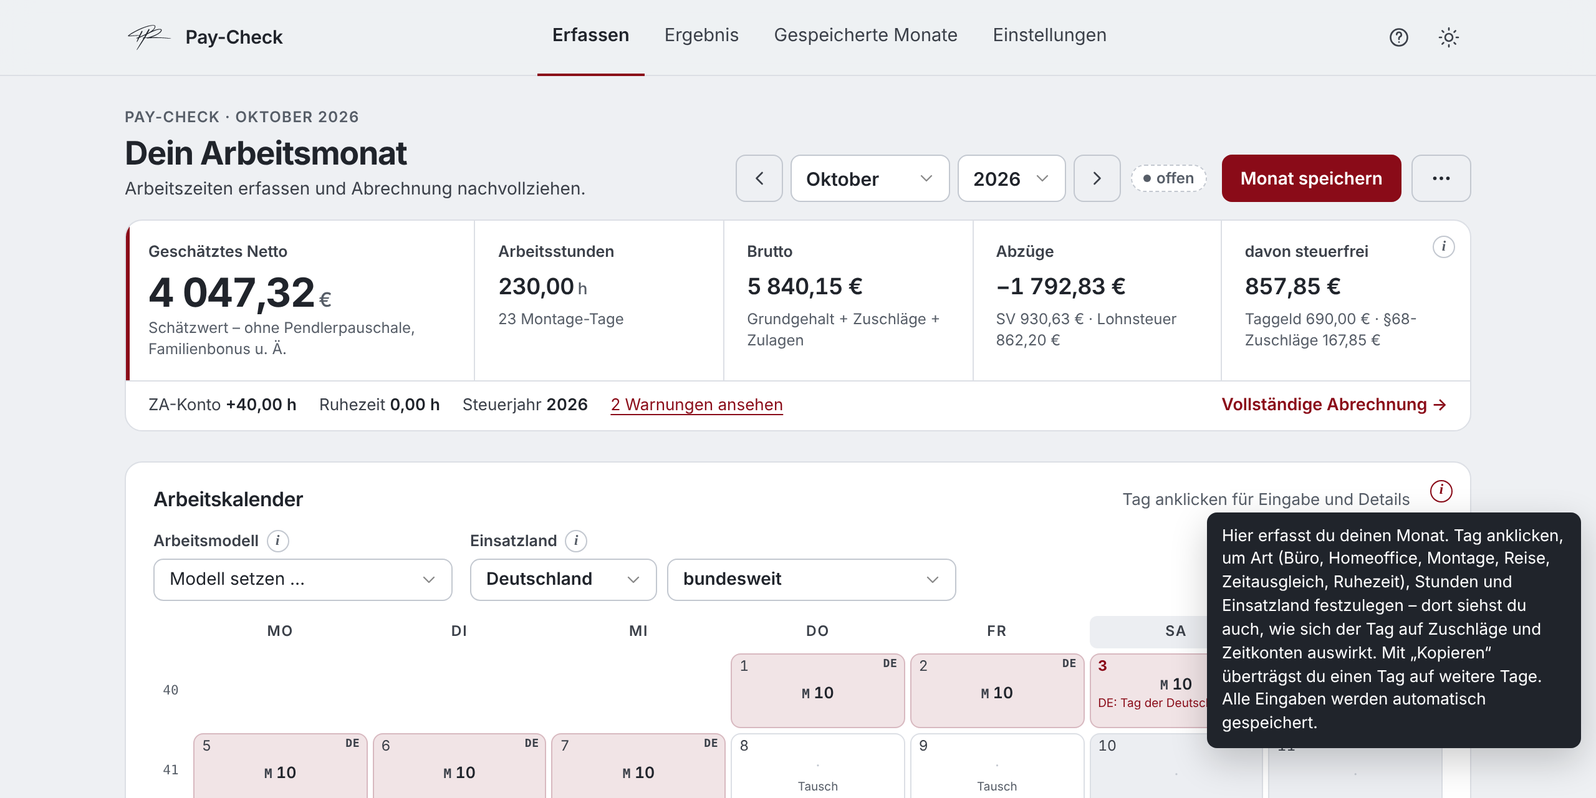
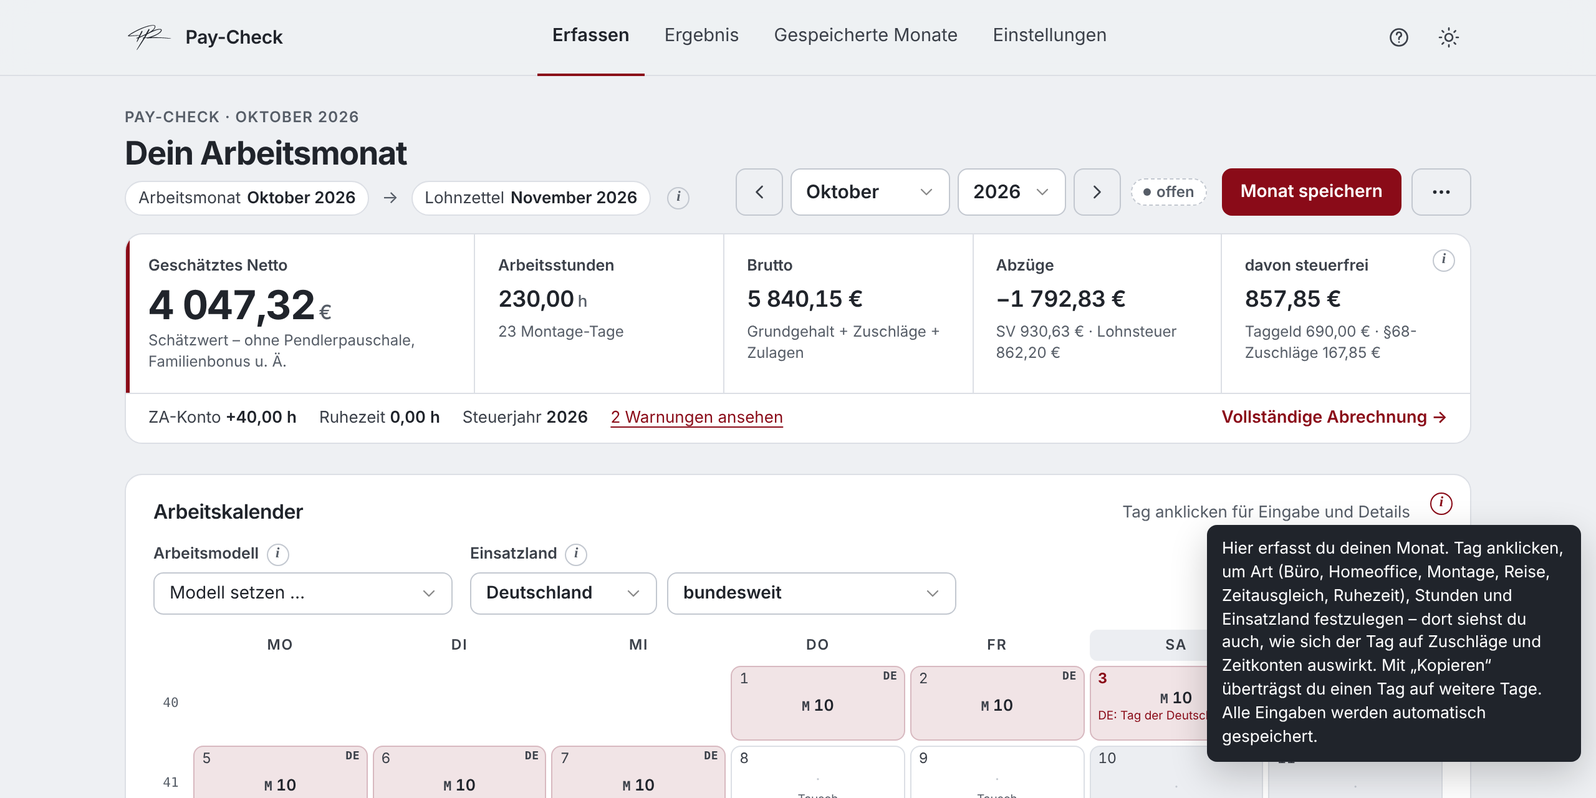
Arbeitsmonat und Lohnzettel klar zuordnen (3.1.0)
- Kopf in Erfassen und Ergebnis: „Arbeitsmonat … → Lohnzettel …“ mit Erklärung,
  Feld „Lohnzettel für“ in der Bezahlung entfällt
- Gespeicherte Monate: Erklärsatz, Diagramm mit Lohnzettel-Monat unter jedem
  Arbeitsmonat, Tabelle und Monatsliste mit „→ Lohnzettel …“
- englische Texte ergänzt, README-Bilder erneuert

diff --git a/index.html b/index.html
@@ -29,6 +29,7 @@
 ": Ergebnis festgehalten; es ändert sich nicht mehr von selbst.": ": Result recorded; it will no longer change on its own.",
 ": Lohnzettel liegt vor und wurde verglichen.": ": Payslip available and compared.",
 ": erfasst und automatisch gesichert, aber noch nicht gespeichert.": ": recorded and automatically backed up, but not saved yet.",
+": {} gearbeitet → Lohnzettel {}.": ": worked in {} → payslip {}.",
 "Abbrechen": "Cancel",
 "Abgerechnet": "Settled",
 "Abgestimmt auf den Abrechnungsbeleg mit den Spalten Lohnart · Einheiten · Satz/BMG · Abzüge · Bezüge. Andere Lohnzettel werden nur allgemein zugeordnet. Bitte jeden erkannten Wert kontrollieren.": "Tailored to the pay statement with the columns wage type · units · rate/BMG · deductions · earnings. Other payslips are only matched in general terms. Please check every recognised value.",
@@ -69,6 +70,8 @@
 "Arbeitsmodell im Monat fortführen": "Continue work pattern in this month",
 "Arbeitsmodell setzen": "Set work pattern",
 "Arbeitsmodell wählen, dann den ersten Arbeitstag im Kalender anklicken": "Choose a work pattern, then click the first working day in the calendar",
+"Arbeitsmonat": "Work month",
+"Arbeitsmonat {} {} → Lohnzettel {} {}": "Work month {} {} → payslip {} {}",
 "Arbeitsstunden": "Working hours",
 "Arbeitstage im Modell": "Working days in pattern",
 "Arbeitszeiten erfassen und Abrechnung nachvollziehen.": "Record your working hours and understand your pay statement.",
@@ -262,6 +265,7 @@
 "Jahresbrutto": "Annual gross",
 "Jahresnetto geschätzt": "Estimated annual net",
 "Jahresübersicht mit Kennzahlen, Diagrammen und allen Monaten. Netto und Brutto summieren nur erfasste Monate; Schätzungen offener Monate sind gekennzeichnet. Export als CSV oder PDF.": "Annual overview with key figures, charts and all months. Net and gross only add up recorded months; estimates for open months are marked. Export as CSV or PDF.",
+"Jede Zeile ist": "Each row is",
 "Jeder erfasste Tag mit Normalarbeitszeit, ZA- und Ruhezeit-Buchung, Zuschlägen und Lenkzeit – gruppiert nach Kalenderwochen mit Wochensummen.": "Every recorded day with normal working hours, ZA and rest time bookings, premiums and driving time – grouped by calendar week with weekly totals.",
 "KV-Erhöhung oder geänderte Einstufung": "KV pay rise or changed grading",
 "KW {}": "CW {}",
@@ -288,15 +292,19 @@
 "Lohnsteuer": "Wage tax",
 "Lohnsteuer (Tarif {})": "Wage tax (tariff {})",
 "Lohnsteuer nach Tarif {} mit Verkehrsabsetzbetrag und Werbungskostenpauschale – ohne Pendlerpauschale, Familienbonus und andere Absetzbeträge.": "Wage tax per the {} tariff with transport tax credit and flat-rate income-related expenses – without commuter allowance, Family Bonus Plus and other tax credits.",
+"Lohnzettel": "Payslip",
 "Lohnzettel (berechnet)": "Payslip (calculated)",
+"Lohnzettel des Folgemonats": "following month's payslip",
 "Lohnzettel einlesen": "Import payslip",
 "Lohnzettel einlesen geht nur online oder über einen lokalen Webserver, nicht in der heruntergeladenen Einzeldatei": "Reading a payslip only works online or via a local web server, not in the downloaded single file",
 "Lohnzettel einlesen konnte nicht geladen werden": "Payslip reading could not be loaded",
 "Lohnzettel für": "Payslip for",
 "Lohnzettel prüfen: Soll-Ist-Vergleich": "Check payslip: expected vs. actual comparison",
 "Lohnzettel wird gelesen": "Reading payslip",
+"Lohnzettel {} {}": "Payslip {} {}",
 "Lohnzettel {} {} erkannt – passt zur Berechnung für {} {}.": "Payslip {} {} detected – matches the calculation for {} {}.",
 "Lohnzettel {} {} nachvollziehen und mit dem echten vergleichen.": "Understand payslip {} {} and compare it with the real one.",
+"Lohnzettel {} {} · Werte {}": "Payslip {} {} · {} values",
 "Lohnzettel-Monat = Folgemonat": "Payslip month = following month",
 "Luxemburg": "Luxembourg",
 "Löschen": "Delete",
@@ -350,6 +358,7 @@
 "Netto / Auszahlung": "Net / payout",
 "Netto berechnet": "Net calculated",
 "Netto geschätzt": "Net estimated",
+"Netto je Arbeitsmonat": "Net per work month",
 "Netto je Monat": "Net per month",
 "Netto jedes Monats im gewählten Jahr. Volle Balken: gespeicherte oder abgerechnete Monate. Schraffiert: offene Monate (Schätzung aus den aktuellen Eingaben). Roter Strich: Netto laut Lohnzettel aus dem Soll-Ist-Vergleich. Nicht erfasste Monate bleiben leer und zählen nicht als {} €.": "Net for each month of the selected year. Solid bars: saved or settled months. Hatched: open months (estimate from the current inputs). Red line: net per payslip from the expected vs. actual comparison. Months not recorded stay empty and don't count as {} €.",
 "Netto laut LZ": "Net per payslip",
@@ -558,6 +567,7 @@
 "Zuschlag ZA-Überlauf (%)": "ZA overflow premium (%)",
 "Zuschläge & Überstunden": "Premiums & overtime",
 "Zuschläge und Taggeld eines Monats werden meist am Lohnzettel des Folgemonats abgerechnet. Vergleiche daher mit diesem Lohnzettel.": "A month's premiums and daily allowance are usually settled on the following month's payslip. So compare with this payslip.",
+"Zuschläge, Überstunden und Taggeld eines Monats werden meist erst am Lohnzettel des Folgemonats abgerechnet. Vergleiche die Berechnung daher mit diesem Lohnzettel.": "Premiums, overtime and daily allowance for a month are usually only paid on the following month's payslip. So compare the calculation with this payslip.",
 "abgerechnet": "settled",
 "alle Tage mit Wochensummen": "all days with weekly totals",
 "als weitere Position: {} €": "as an additional item: {} €",
@@ -566,6 +576,7 @@
 "bundesweit": "nationwide",
 "davon steuerfrei": "of which tax-free",
 "den Monat speichern, mit dem echten Lohnzettel vergleichen und als": "save the month, compare it with your real payslip and mark it as",
+"ein Arbeitsmonat": "a work month",
 "ein PDF (bis {} Seiten) oder bis zu {} Fotos – eines pro Seite · JPG oder PNG · zusammen bis {} MB": "one PDF (up to {} pages) or up to {} photos – one per page · JPG or PNG · up to {} MB in total",
 "eingeschränkt vergleichbar": "partly comparable",
 "einmal Grundgehalt, Taggeld und dein Arbeitsmodell eintragen.": ", enter your base salary, daily allowance and work pattern once.",
@@ -615,6 +626,7 @@
 "steuerpflichtig": "taxable",
 "stimmt": "matches",
 "ungültige Eingabe": "invalid input",
+"unter jedem Monat: Lohnzettel-Monat": "below each month: payslip month",
 "unvollständig": "incomplete",
 "veraltet": "outdated",
 "von dir geändert": "changed by you",
@@ -694,7 +706,10 @@
 "Übertrag": "Carried over",
 "Übertrag {} · Sonntagsarbeit {} · genommen {}": "Carried over {} · Sunday work {} · taken {}",
 "Übertrag {} · Zugänge {} · Entnahmen {}": "Carried over {} · additions {} · withdrawals {}",
-"– auf den ersten Arbeitstag klicken": "– click the first working day"
+"– auf den ersten Arbeitstag klicken": "– click the first working day",
+"– der Monat, in dem du gearbeitet hast. Zuschläge und Taggeld daraus stehen meist am": "– the month in which you worked. Its premiums and daily allowance usually appear on the",
+"→ Lohnzettel": "→ payslip",
+"→ Lohnzettel {} {}": "→ payslip {} {}"
 }</script>
 <script>
 (function(){
@@ -1131,6 +1146,18 @@ tr.clickable:hover td{background:var(--pr-surface-2);}
 .rec-item{display:grid;grid-template-columns:24px minmax(0,1fr) 190px 360px;gap:8px 14px;align-items:center;padding:12px 0;border-bottom:1px solid var(--pr-border);}
 .rec-item:last-child{border-bottom:none;}
 .rec-name{font-weight:600;}
+#jahr-table td.r,.nowrap{white-space:nowrap;}
+#jahr-table th{white-space:normal;vertical-align:bottom;}
+.td-lz{display:block;font-size:12px;color:var(--pr-text-3);white-space:nowrap;}
+.th-sub{display:block;text-transform:none;letter-spacing:0;font-weight:500;color:var(--pr-text-3);}
+.rec-lz{font-weight:400;font-size:13px;color:var(--pr-text-3);margin-left:4px;white-space:nowrap;}
+.monat-paar{display:flex;align-items:center;flex-wrap:wrap;gap:4px 10px;margin-top:6px !important;}
+.mp-teil{display:inline-flex;align-items:baseline;gap:5px;padding:3px 10px;border:1px solid var(--pr-border);border-radius:999px;background:var(--pr-surface);font-size:13px;color:var(--pr-text-2);}
+.mp-teil b{color:var(--pr-text);font-weight:600;}
+.mp-pfeil{color:var(--pr-text-3);}
+.monat-erklaerung{margin:6px 0 0;max-width:820px;}
+.chart text.ax-lz{font-size:9.5px;opacity:.8;}
+.grid4.grid3{grid-template-columns:repeat(3,minmax(0,1fr));}
 .rec-meta{font-size:12.5px;color:var(--pr-text-3);}
 .rec-badges{display:flex;gap:5px;flex-wrap:wrap;margin-top:4px;}
 .rec-vals{font-size:13.5px;color:var(--pr-text-2);font-variant-numeric:tabular-nums;}
@@ -1342,7 +1369,7 @@ details.card.fold>summary>.info-ecke{right:28px;}
 }
 @media (max-width:640px){
   .konten-row{grid-template-columns:1fr;}
-  .grid4{grid-template-columns:repeat(2,minmax(0,1fr));}
+  .grid4,.grid4.grid3{grid-template-columns:repeat(2,minmax(0,1fr));}
   .kopf h1{font-size:22px;}
   .cal-tool{flex:1 1 100%;}
   .cal-tools .menu{margin-left:auto;}
@@ -1416,7 +1443,7 @@ details.card.fold>summary>.info-ecke{right:28px;}
     <div class="kopf-text">
       <span class="kopf-eyebrow" id="kopf-eyebrow">Pay-Check</span>
       <h1 id="kopf-titel">Dein Arbeitsmonat</h1>
-      <p id="kopf-sub">Arbeitszeiten erfassen und Abrechnung nachvollziehen.</p>
+      <p id="kopf-sub" class="monat-paar"></p>
     </div>
     <div class="kopf-aktionen">
       <div class="row">
@@ -1528,11 +1555,11 @@ details.card.fold>summary>.info-ecke{right:28px;}
         <h2 class="panel-title">Bezahlung</h2>
         <button class="toggle" id="lehrling-btn" onclick="toggleLehrling()" title="Lehrling: reduzierter SV-Satz">Lehrling</button>
       </div>
-      <div class="grid4">
+      <div class="grid4 grid3">
         <label class="field"><span id="grundgehalt-label">Grundgehalt (€/Monat)</span><input type="number" id="grundgehalt" value="0" step="10" min="0"></label>
         <label class="field"><span><span id="stundensatz-label">Stundensatz (€/h)</span> <button type="button" class="help" data-help="Grundgehalt geteilt durch den Stundenteiler aus den Einstellungen (üblich: 143). Basis für Überstunden, Zuschläge und Lenkzeit." aria-label="Info">i</button></span><input type="number" id="stundensatz" value="0" step="0.01" readonly tabindex="-1"></label>
         <label class="field"><span>Taggeld (€/Tag) <button type="button" class="help" data-help="Satz laut Kollektivvertrag pro Montage-Tag. Steuerfrei bis 30 € im Inland bzw. bis zum Auslandssatz des Einsatzlandes, der Rest ist steuerpflichtig." aria-label="Info">i</button></span><input type="number" id="taggeld" value="0" step="1" min="0"></label>
-        <label class="field"><span>Lohnzettel für <button type="button" class="help" data-help="Zuschläge und Taggeld eines Monats werden meist am Lohnzettel des Folgemonats abgerechnet. Vergleiche daher mit diesem Lohnzettel." aria-label="Info">i</button></span><input type="text" id="lz-monat" readonly tabindex="-1"></label>
+        
       </div>
       <p class="hint" id="lehrling-hint" hidden></p>
           <details class="fold subsec" id="sz-fold" style="margin-top:14px;padding-top:0;" data-info="Urlaubsgeld wird nach §67 EStG begünstigt besteuert (6 % bis zum Jahressechstel). Prämien und Zulagen trägst du mit ihrer steuerlichen Behandlung ein: steuerpflichtig (laufender Bezug), steuerfrei oder §67 begünstigt.">
@@ -1602,6 +1629,7 @@ details.card.fold>summary>.info-ecke{right:28px;}
     <div>
       <h1>Gespeicherte Monate <button type="button" class="help" data-help="Jahresübersicht mit Kennzahlen, Diagrammen und allen Monaten. Netto und Brutto summieren nur erfasste Monate; Schätzungen offener Monate sind gekennzeichnet. Export als CSV oder PDF." aria-label="Info">i</button></h1>
       <p id="jahr-coverage"></p>
+      <p class="hint monat-erklaerung">Jede Zeile ist <b>ein Arbeitsmonat</b> – der Monat, in dem du gearbeitet hast. Zuschläge und Taggeld daraus stehen meist am <b>Lohnzettel des Folgemonats</b>: Oktober gearbeitet → Lohnzettel November.</p>
     </div>
     <div class="row no-print">
       <select id="jahr-sel" aria-label="Jahr" style="width:auto;"></select>
@@ -1613,7 +1641,7 @@ details.card.fold>summary>.info-ecke{right:28px;}
     <div class="kpis" id="jahr-kpis"></div>
     <div class="kpis compact" id="jahr-kpis2"></div>
     <div class="card" data-info="Netto jedes Monats im gewählten Jahr. Volle Balken: gespeicherte oder abgerechnete Monate. Schraffiert: offene Monate (Schätzung aus den aktuellen Eingaben). Roter Strich: Netto laut Lohnzettel aus dem Soll-Ist-Vergleich. Nicht erfasste Monate bleiben leer und zählen nicht als 0 €.">
-      <div class="card-head"><h2 class="panel-title">Netto je Monat</h2><span class="small muted">Lohnzettel-Monat = Folgemonat</span></div>
+      <div class="card-head"><h2 class="panel-title">Netto je Arbeitsmonat</h2><span class="small muted">unter jedem Monat: Lohnzettel-Monat</span></div>
       <div class="chart-legend" id="netto-legend"></div>
       <div class="chart" id="netto-chart"></div>
     </div>
@@ -2418,7 +2446,7 @@ function rhythmusMonat(modell,start,monat,jahr,t,land,region){
 // ═══════════════════════════════════════════════════════════════════════════
 // App – Oberfläche, Speicherung, Navigation
 // ═══════════════════════════════════════════════════════════════════════════
-const APP_VERSION='3.0.0'
+const APP_VERSION='3.1.0'
 
 // Quelltext der Seite im Originalzustand (vor jeder JS-Änderung) — Basis zum Zurückschreiben der Einstellungen
 const SOURCE_HTML=(()=>{const c=window.pcQuelle?window.pcQuelle():document.documentElement.cloneNode(true);c.removeAttribute('data-theme');return'<!DOCTYPE html>\n'+c.outerHTML})()
@@ -2756,19 +2784,22 @@ function render(){
   if(!MONATS_VIEWS.includes(aktiveView()))return
   renderRechner()
 }
+// Arbeitsmonat und zugehöriger Lohnzettel (meist der Folgemonat)
+function lzVon(monat,jahr){return monat===12?{m:1,j:jahr+1}:{m:monat+1,j:jahr}}
+function monatsPaar(monat,jahr){const l=lzVon(monat,jahr)
+  return`<span class="mp-teil"><span>Arbeitsmonat</span> <b>${MONATE[monat-1]} ${jahr}</b></span><span class="mp-pfeil" aria-hidden="true">→</span><span class="mp-teil"><span>Lohnzettel</span> <b>${MONATE[l.m-1]} ${l.j}</b></span><button type="button" class="help" data-help="Zuschläge, Überstunden und Taggeld eines Monats werden meist erst am Lohnzettel des Folgemonats abgerechnet. Vergleiche die Berechnung daher mit diesem Lohnzettel." aria-label="Info">i</button>`}
 function renderRechner(){
   const res=state._res;if(!res)return
   const {lz,ruhe,werte}=res,{monat,jahr}=state
   const lzM=monat===12?1:monat+1,lzJ=monat===12?jahr+1:jahr
   $('stundensatz').value=state.stundensatz.toFixed(2)
   $('stundensatz-label').textContent='Stundensatz (÷ '+cfg().teiler+')'
-  $('lz-monat').value=pcT(MONATE[lzM-1]+' '+lzJ)
-  $('lz-label').textContent='für '+MONATE[lzM-1]+' '+lzJ+' · Werte '+werte.jahr
+  $('lz-label').textContent='Lohnzettel '+MONATE[lzM-1]+' '+lzJ+' · Werte '+werte.jahr
   $('cal-title').textContent='Arbeitskalender'
   const erg=aktiveView()==='ergebnis'
   $('kopf-eyebrow').textContent='Pay-Check · '+MONATE[monat-1]+' '+jahr
   $('kopf-titel').textContent=erg?'Deine Abrechnung':'Dein Arbeitsmonat'
-  $('kopf-sub').textContent=erg?'Lohnzettel '+MONATE[lzM-1]+' '+lzJ+' nachvollziehen und mit dem echten vergleichen.':'Arbeitszeiten erfassen und Abrechnung nachvollziehen.'
+  $('kopf-sub').innerHTML=monatsPaar(monat,jahr)
   $('print-title-rechner').textContent='Pay-Check – Monatsabrechnung '+MONATE[monat-1]+' '+jahr+' – Lohnzettel '+MONATE[lzM-1]+' '+lzJ
   renderMonatStatus()
   renderKpis()
@@ -3242,6 +3273,8 @@ function jahresDaten(jahr){
     return{key,name,m:i+1,rec,erg,status:rec.status,geschaetzt:!rec.saved,istNetto:istN==null||istN===''?null:+istN}
   })
 }
+function lzKurz(key){const l=lzVon(+key.slice(5,7),+key.slice(0,4));return MONATE[l.m-1]+(l.j!==+key.slice(0,4)?' '+l.j:'')}
+function lzName(key){const l=lzVon(+key.slice(5,7),+key.slice(0,4));return MONATE[l.m-1]+' '+l.j}
 function renderJahr(){
   const sel=$('jahr-sel'),recs=readMonate()
   const jahre=new Set([state.jahr,new Date().getFullYear(),...Object.keys(recs).map(k=>+k.slice(0,4))])
@@ -3264,10 +3297,10 @@ function renderJahr(){
     kpiHtml('Prämien & Sonderzahlungen',euro(r(sum('praemien')+sum('sonderzahlungen'))),'Prämien, Urlaubsgeld')+kpiHtml('Stunden',fmtH(sum('stunden'))+'<small>h</small>','gearbeitet inkl. Reise')
   renderNettoChart(daten);renderKontoChart(daten)
   const td=v=>`<td class="r">${v}</td>`
-  $('jahr-table').innerHTML=`<table><thead><tr><th>Monat</th><th>Status</th><th class="r">Brutto</th><th class="r">Netto geschätzt</th><th class="r">Netto laut LZ</th><th class="r">Taggeld</th><th class="r">Stunden</th><th class="r">ZA Ende</th><th class="r">Ruhezeit Ende</th></tr></thead><tbody>${
+  $('jahr-table').innerHTML=`<table><thead><tr><th>Arbeitsmonat <span class="th-sub">→ Lohnzettel</span></th><th>Status</th><th class="r">Brutto</th><th class="r">Netto geschätzt</th><th class="r">Netto laut Lohnzettel</th><th class="r">Taggeld</th><th class="r">Stunden</th><th class="r">ZA Ende</th><th class="r">Ruhezeit Ende</th></tr></thead><tbody>${
     daten.map(d=>d.fehlt
-      ?`<tr class="missing"><td>${d.name}</td><td><span class="badge b-fehlt">nicht erfasst</span></td><td class="r" colspan="7"><button class="link-btn no-print" onclick="oeffneMonat('${d.key}')">erfassen</button></td></tr>`
-      :`<tr class="clickable" onclick="oeffneMonat('${d.key}')" title="${d.name} ${jahr} öffnen"><td class="strong">${d.name}</td><td><span class="row" style="gap:4px;">${recBadges(d.rec)}</span></td>${td(fmtE(d.erg.brutto))}${td((d.geschaetzt?'~ ':'')+fmtE(d.erg.netto))}${td(d.istNetto!=null?fmtE(d.istNetto):'—')}${td(fmtE(d.erg.taggeld))}${td(fmtH(d.erg.stunden))}${td(fmtH(d.erg.zaEnde))}${td(fmtH(d.erg.ruheEnde))}</tr>`).join('')
+      ?`<tr class="missing"><td>${d.name}<span class="td-lz">→ ${lzKurz(d.key)}</span></td><td><span class="badge b-fehlt">nicht erfasst</span></td><td class="r" colspan="7"><button class="link-btn no-print" onclick="oeffneMonat('${d.key}')">erfassen</button></td></tr>`
+      :`<tr class="clickable" onclick="oeffneMonat('${d.key}')" title="${d.name} ${jahr} öffnen"><td><b>${d.name}</b><span class="td-lz">→ ${lzKurz(d.key)}</span></td><td><span class="row" style="gap:4px;">${recBadges(d.rec)}</span></td>${td(fmtE(d.erg.brutto))}${td((d.geschaetzt?'~ ':'')+fmtE(d.erg.netto))}${td(d.istNetto!=null?fmtE(d.istNetto):'—')}${td(fmtE(d.erg.taggeld))}${td(fmtH(d.erg.stunden))}${td(fmtH(d.erg.zaEnde))}${td(fmtH(d.erg.ruheEnde))}</tr>`).join('')
   }</tbody>${da.length?`<tfoot><tr class="sum"><td colspan="2">Summe (${da.length} ${da.length===1?'Monat':'Monate'})</td>${td(fmtE(sum('brutto')))}${td(fmtE(sum('netto')))}${td(mitIst.length?fmtE(r(mitIst.reduce((s,d)=>s+d.istNetto,0))):'—')}${td(fmtE(sum('taggeld')))}${td(fmtH(sum('stunden')))}<td></td><td></td></tr></tfoot>`:''}</table>`
 }
 function niceMax(v){if(v<=0)return 1;const p=Math.pow(10,Math.floor(Math.log10(v))),f=v/p;return(f<=1?1:f<=2?2:f<=2.5?2.5:f<=5?5:10)*p}
@@ -3287,14 +3320,14 @@ function bindChartTips(wrap,tipFor){
   })
 }
 function renderNettoChart(daten){
-  const W=760,H=240,ml=52,mr=8,mt=12,mb=26,pw=W-ml-mr,ph=H-mt-mb,slot=pw/12,bw=Math.min(34,slot*0.56)
+  const W=760,H=252,ml=52,mr=8,mt=12,mb=38,pw=W-ml-mr,ph=H-mt-mb,slot=pw/12,bw=Math.min(34,slot*0.56)
   const max=niceMax(Math.max(0,...daten.filter(d=>!d.fehlt).map(d=>Math.max(d.erg.netto,d.istNetto||0))))
   const y=v=>mt+ph-(v/max)*ph
   let g='<defs><pattern id="hatch-o" width="6" height="6" patternUnits="userSpaceOnUse" patternTransform="rotate(45)"><rect width="6" height="6" fill="var(--pr-surface)"/><line x1="0" y1="0" x2="0" y2="6" stroke="var(--pr-text-2)" stroke-width="2"/></pattern></defs>'
   for(let i=0;i<=4;i++){const v=max*i/4;g+=`<line class="${i?'grid':'base'}" x1="${ml}" x2="${W-mr}" y1="${y(v)}" y2="${y(v)}"/><text x="${ml-8}" y="${y(v)+4}" text-anchor="end">${Math.round(v).toLocaleString(window.PC_LOCALE||'de-AT')}</text>`}
   daten.forEach((d,i)=>{
     const cx=ml+slot*i+slot/2,x=cx-bw/2
-    g+=`<text x="${cx}" y="${H-8}" text-anchor="middle">${d.name.slice(0,3)}</text>`
+    g+=`<text x="${cx}" y="${H-20}" text-anchor="middle" class="ax-monat">${d.name.slice(0,3)}</text><text x="${cx}" y="${H-5}" text-anchor="middle" class="ax-lz">→ ${MONATE[(i+1)%12].slice(0,3)}</text>`
     if(d.fehlt){g+=`<rect x="${x}" y="${y(0)-3}" width="${bw}" height="3" rx="1.5" fill="none" stroke="var(--pr-border-strong)" stroke-dasharray="3 2"/>`}
     else{
       const top=y(Math.max(0,d.erg.netto)),h=Math.max(0,y(0)-top),rr=Math.min(4,h)
@@ -3307,7 +3340,7 @@ function renderNettoChart(daten){
   const wrap=$('netto-chart');wrap.innerHTML=`<svg viewBox="0 0 ${W} ${H}" role="img" aria-label="Netto je Monat">${g}</svg>`
   $('netto-legend').innerHTML='<span><i style="background:var(--pr-ink)"></i>gespeichert / abgerechnet</span><span><i style="background:repeating-linear-gradient(135deg,var(--pr-text-2) 0 2px,var(--pr-surface) 2px 5px);border:1px solid var(--pr-text-2)"></i>offen (Schätzung)</span><span><i style="background:var(--pr-red);height:3px;vertical-align:3px"></i>Netto laut Lohnzettel</span><span><i style="border:1px dashed var(--pr-border-strong)"></i>nicht erfasst</span>'
   bindChartTips(wrap,i=>{const d=daten[i];if(d.fehlt)return`<b>${d.name}</b>nicht erfasst`
-    return`<b>${d.name}</b>Netto ${d.geschaetzt?'(Schätzung) ':''}${fmtE(d.erg.netto)}<br>Brutto ${fmtE(d.erg.brutto)}`+(d.istNetto!=null?`<br>laut Lohnzettel ${fmtE(d.istNetto)}`:'')})
+    return`<b>${d.name}</b><span class="muted">Lohnzettel ${lzName(d.key)}</span><br>Netto ${d.geschaetzt?'(Schätzung) ':''}${fmtE(d.erg.netto)}<br>Brutto ${fmtE(d.erg.brutto)}`+(d.istNetto!=null?`<br>laut Lohnzettel ${fmtE(d.istNetto)}`:'')})
 }
 function renderKontoChart(daten){
   const W=760,H=200,ml=52,mr=70,mt=12,mb=26,pw=W-ml-mr,ph=H-mt-mb,slot=pw/12
@@ -3353,7 +3386,7 @@ function renderAbrechnungen(){
     const meta=rec.saved?'gespeichert '+dt(rec.saved.at)+(rec.saved.aktualisiert?' (aktualisiert)':''):'zuletzt bearbeitet '+dt(rec.draft?rec.draft.at:rec.created)
     const hist=(rec.history||[]).length?' · '+rec.history.length+(rec.history.length===1?' frühere Fassung':' frühere Fassungen'):''
     return`<div class="rec-item"><input type="checkbox" aria-label="${monatName(k)} vergleichen" ${state.vergleich.includes(k)?'checked':''} onchange="vergleichToggle('${k}',this.checked)">
-      <div><div class="rec-name">${monatName(k)}</div><div class="rec-meta">${meta}${hist}</div><div class="rec-badges">${recBadges(rec)}</div></div>
+      <div><div class="rec-name">${monatName(k)} <span class="rec-lz">→ Lohnzettel ${lzName(k)}</span></div><div class="rec-meta">${meta}${hist}</div><div class="rec-badges">${recBadges(rec)}</div></div>
       <div class="rec-vals">Brutto ${fmtE(erg.brutto)}<br>Netto ${rec.saved?'':'~ '}${fmtE(erg.netto)}</div>
       <div class="rec-actions">
         <button class="btn small secondary" onclick="oeffneMonat('${k}')">Öffnen</button>

diff --git a/ueberblick.md b/ueberblick.md
@@ -1,6 +1,6 @@
 # Pay-Check – Funktionsüberblick
 
-Stand: Version 3.0.0 · Live: <https://paul-rafael.github.io/pay-check/>
+Stand: Version 3.1.0 · Live: <https://paul-rafael.github.io/pay-check/>
 
 Einsätze erfassen, Lohn nachrechnen, Lohnzettel prüfen – nach österreichischem Recht, vollständig im Browser, ohne Konto und ohne Server.
 
@@ -19,6 +19,10 @@ Einsätze erfassen, Lohn nachrechnen, Lohnzettel prüfen – nach österreichisc
 Jede Funktion hat rechts oben ein kleines **„i“**, das per Klick erklärt, wofür sie da ist; einzelne Felder haben ein eigenes „i“. Am Handy gibt es eine Navigationsleiste unten. Alte Adressen (`#rechner`, `#jahr`, `#abrechnungen`) leiten weiter.
 
 ---
+
+## Arbeitsmonat und Lohnzettel
+
+Alle Monate im Rechner sind **Arbeitsmonate** (wann gearbeitet wurde). Zuschläge, Überstunden und Taggeld daraus stehen meist am **Lohnzettel des Folgemonats**. Deshalb zeigt der Kopf in Erfassen und Ergebnis immer das Paar „Arbeitsmonat Oktober 2026 → Lohnzettel November 2026“, und die Jahresübersicht nennt unter jedem Arbeitsmonat den passenden Lohnzettel-Monat.
 
 ## Ergebnisleiste (Erfassen und Ergebnis)
 

diff --git a/CHANGELOG.md b/CHANGELOG.md
@@ -2,6 +2,13 @@
 
 Alle wichtigen Änderungen an diesem Projekt. Format nach [Keep a Changelog](https://keepachangelog.com/de/1.1.0/), Versionierung nach [Semantic Versioning](https://semver.org/lang/de/).
 
+## [3.1.0] – 2026-10-22
+
+### Geändert
+- Arbeitsmonat und Lohnzettel klar getrennt: Oben in Erfassen und Ergebnis steht jetzt „Arbeitsmonat Oktober 2026 → Lohnzettel November 2026“ (mit Erklärung über das „i“). Das Feld „Lohnzettel für“ in der Bezahlung entfällt.
+- Gespeicherte Monate: kurze Erklärung, dass jede Zeile ein Arbeitsmonat ist und der Lohnzettel meist im Folgemonat kommt. Diagramm „Netto je Arbeitsmonat“ zeigt unter jedem Monat den Lohnzettel-Monat, die Tabelle und die Monatsliste ebenfalls; „Netto laut LZ“ heißt jetzt „Netto laut Lohnzettel“.
+- Ergebnis: Lohnzettel-Karte nennt „Lohnzettel November 2026“ statt „für November 2026“.
+
 ## [3.0.0] – 2026-10-21
 
 ### Geändert
